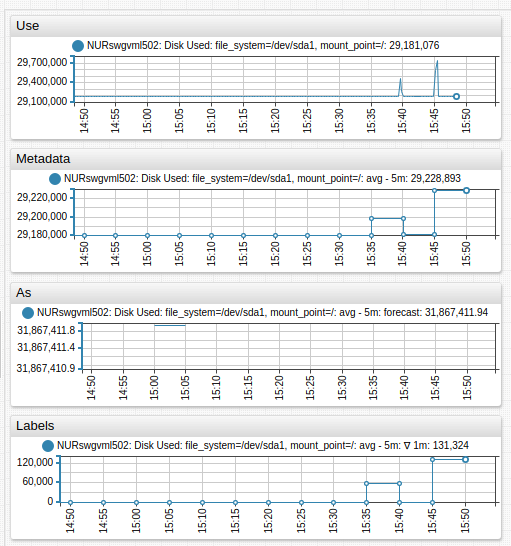
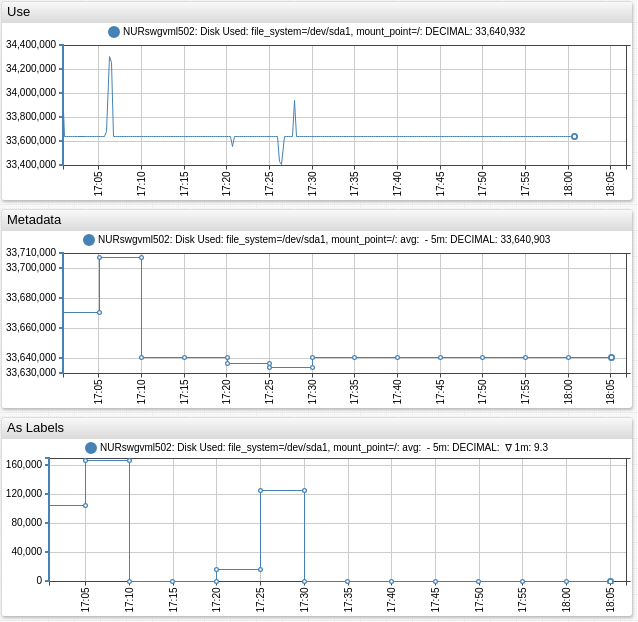
label-formatting.md

diff --git a/syntax/label-formatting.md b/syntax/label-formatting.md
@@ -44,6 +44,7 @@ Invoke built-in string functions to format series fields.
 <a name="replace"></a>[`replace`](#replace) | Replace **all** occurrences of the given string in the original string with another string.|
 <a name="capFirst"></a>[`capFirst`](#capFirst)| **Capitalize** first word. |
 <a name="capitalize"></a>[`capitalize`](#capitalize)| **Capitalize** all words.  |
+<a name="coalesce"></a>[`coalesce`](#coalesce)| Returns the first object from arguments that is not `undefined`, not `null` and not empty.<br>Returns an empty string `""` if all elements are `null` or empty.<br> **Alias**: `ifEmpty` |
 <a name="lowercase"></a>[`lowerCase`](#lowercase)| Convert to **lower** case.   |
 <a name="uppercase"></a>[`upperCase`](#uppercase)| Convert to **upper** case.   |
 <a name="removebeginning"></a>[`removeBeginning`](#removebeginning)| **Removes** the given substring from the **beginning** of the string.|
@@ -85,12 +86,12 @@ Include the `addMeta = true` expression on the `[configuration]` level.
 [configuration]
 add-meta = true
 /* Format label using metadata identifiers */
-label-format = javascript: (meta.entity.label ? meta.entity.label : entity) + ": " + (meta.metric.label ? meta.metric.label : metric) + (tags+"" != 'null' ? ": " + tags : "") + (statistics && statistics != 'detail' ? ": " + statistics : "") + (period ? " - " + period : "") + (dataType ? ": " + dataType : "") + (rate ? ": ∇ " + rate : "")
+label-format = javascript: [coalesce(meta.entity.label, entity), ifEmpty(meta.metric.label, metric), ifEmpty(tags), (statistics && statistics !== "detail" ? statistics : ""), (period ? " - " + period : ""), ifEmpty(meta.metric.dataType), (rate ? " ∇ " + rate : "")].filter(s => s !== "").join(": ")
 ```
 
 ![](./images/metadata-2.png)
 
-[![](./images/new-button.png)](https://apps.axibase.com/chartlab/5d4c12e8)
+[![](./images/new-button.png)](https://apps.axibase.com/chartlab/5d4c12e8/2/)
 
 ## Examples
 
